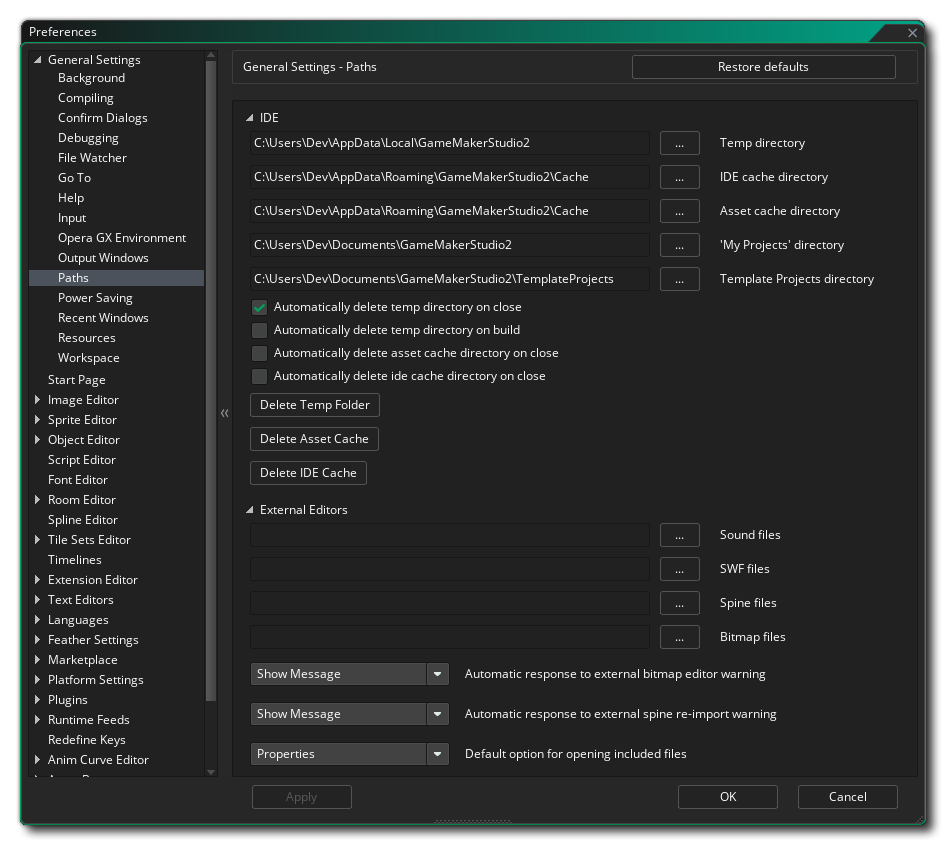
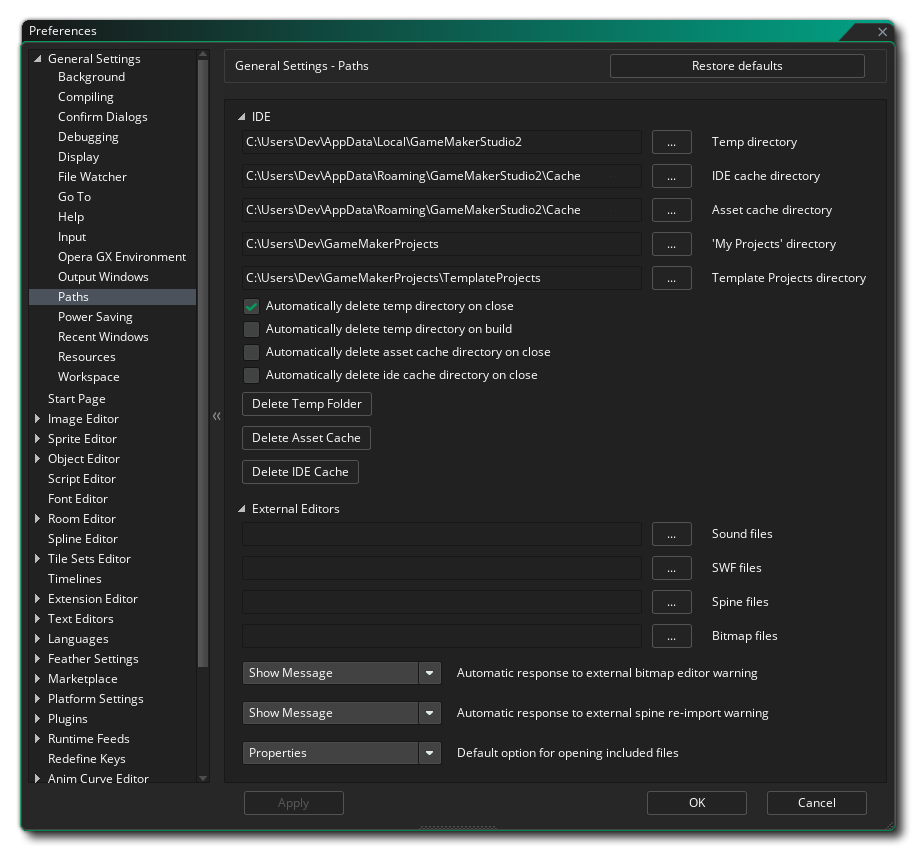
docs(feature): Preferences: [Win IDE] Change "Paths" defaults to avoid OneDrive, now that Windows puts My Documents inside OneDrive YoYoGames/GameMaker-Bugs#4372
* Updated the items and screenshot
* Added "My Projects" and "Template Projects" as RH variables

diff --git a/Manual/contents/Setting_Up_And_Version_Information/IDE_Preferences/General/Paths.htm b/Manual/contents/Setting_Up_And_Version_Information/IDE_Preferences/General/Paths.htm
@@ -38,10 +38,16 @@
       <p class="code">/Users/&lt;Username&gt;/.config/<span data-keyref="GameMaker_Paths_Directory_Name">GameMakerStudio2</span>/Cache</p>
       <p> </p>
     </li>
-    <li><strong>&quot;My Projects&quot; Location</strong>: The location where <span data-keyref="GameMaker Name">GameMaker</span> will initially create new projects. By default on Windows this is: 
-      <p class="code">\Users\&lt;Username&gt;\Documents\<span data-keyref="GameMaker_Paths_Directory_Name">GameMakerStudio2</span></p>
+    <li><strong>&quot;My Projects&quot; directory</strong>: The location where <span data-keyref="GameMaker Name">GameMaker</span> will initially create new projects. By default on Windows this is: 
+      <p class="code">\Users\&lt;Username&gt;\<span data-keyref="Const_IDE_MyProjects_Directory_Name">GameMakerProjects</span></p>
       And on macOS it&#39;s: 
-      <p class="code">/Users/&lt;Username&gt;/<span data-keyref="GameMaker_Paths_Directory_Name">GameMakerStudio2</span></p>
+      <p class="code">/Users/&lt;Username&gt;/<span data-keyref="Const_IDE_MyProjects_Directory_Name">GameMakerProjects</span></p>
+      <p> </p>
+    </li>
+    <li><strong>Template Projects directory</strong>: The location where <span data-keyref="GameMaker Name">GameMaker</span> stores the custom template projects that you create. By default on Windows this is:
+      <p class="code">\Users\&lt;Username&gt;\<span data-keyref="Const_IDE_MyProjects_Directory_Name">GameMakerProjects</span>\<span data-keyref="Const_IDE_TemplateProjects_Directory_Name">TemplateProjects</span></p>
+      And on macOS it&#39;s: 
+      <p class="code">/Users/&lt;Username&gt;/<span data-keyref="Const_IDE_MyProjects_Directory_Name">GameMakerProjects</span>/<span data-keyref="Const_IDE_TemplateProjects_Directory_Name">TemplateProjects</span></p>
       <p> </p>
     </li>
     <li><strong>Automatically delete temp directory on close</strong>: Checking this will force <span data-keyref="GameMaker Name">GameMaker</span> to automatically delete the Temp folder that it creates per project for compiling, etc. This setting is on by default, and un-checking it will switch it off (meaning that you&#39;ll have to manually remove any temp files later).</li>
